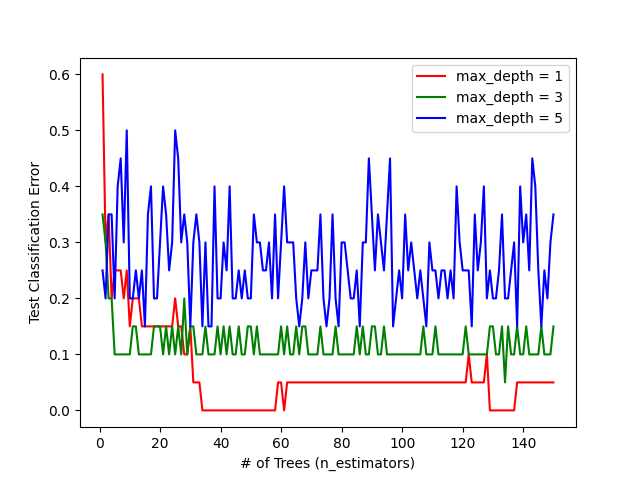
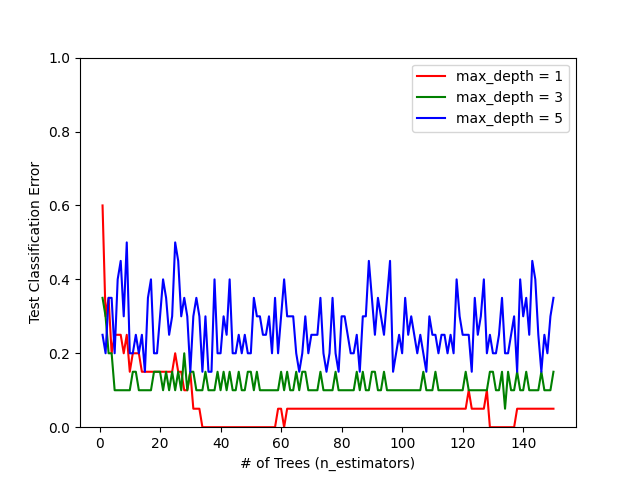
n

diff --git a/_hw3/hw3/Submission/Code/Template_SVM.py b/_hw3/hw3/Submission/Code/Template_SVM.py
@@ -36,32 +36,50 @@ class SVM(object):
         n_samples, n_features = X.shape
 
         # Initialize the parameters wb
+        wb = std * np.random.randn(n_features + 1) # +1 for bias term
 
         # initialize any container needed for save results during training
+        w, b = SVM.unpack_wb(wb, n_features)
+        self.set_params(w, b)
+        best_obj_f = None
+        best_wb = None
+        obj_list = []
 
         for i in range(iterations):
             pass
             # calculate learning rate with iteration number i
+            lr_t = lr / ((i + 1) ** 0.5)
 
             # calculate the subgradients
+            subgradients = self.subgradient(wb, X, y)
 
             # update the parameter wb with the gradients
+            wb = wb - subgradients * lr_t
 
             # calculate the new objective function value
-
+            obj_f = self.objective(wb, X, y)
 
             # compare the current objective function value with the saved best value
             # update the best value if the current one is better
-
+            obj_list.append(obj_f)
+            if best_obj_f is None:
+                best_obj_f = obj_f
+                best_wb = wb
+            else:
+                if obj_f < best_obj_f:
+                    best_obj_f = obj_f
+                    best_wb = wb
             # Logging
             #if (i+1)%1000 == 0:
             #    print(f"Training step {i+1:6d}: LearningRate[{lr_t:.7f}], Objective[{f:.7f}]")
 
         # Save the best parameter found during training 
+        self.wb = best_wb
+        self.w, self.b = self.unpack_wb(self.wb, n_features)
 
         # optinally return recorded objective function values (for debugging purpose) to see
         # if the model is converging
-        # return
+        return obj_list
 
     @staticmethod
     def unpack_wb(wb, n_features):
@@ -274,6 +292,8 @@ def plot_decision_boundary(clf, X, y, title='SVM'):
     plt.title(title)
     plt.show()
 
+def ensembles_part_4(kernel, train_X, train_y, test_X, test_y):
+
 
 def main():
     # Set the seed for numpy random number generator
@@ -283,11 +303,16 @@ def main():
     # Load in the training data and testing data
     train_X, train_y, test_X, test_y = load_data()
 
+    # Ensembles 2.4 
+    ensembles_part_4('linear', train_X, train_y, test_X, test_y)
+    ensembles_part_4('poly', train_X, train_y, test_X, test_y)
+    ensembles_part_4('rbf', train_X, train_y, test_X, test_y)
+
     # For using the first two dimensions of the data
     #train_X = train_X[:,:2]
     #test_X = test_X[:,:2]
 
-
+    breakpoint()
     clf = SVM(C=C)
     objs = clf.fit(train_X, train_y, lr=0.002, iterations=10000)
 

diff --git a/_hw3/hw3/Submission/Code/Template_Ensembles.py b/_hw3/hw3/Submission/Code/Template_Ensembles.py
@@ -74,6 +74,7 @@ def main():
     plt.ylabel("Test Classification Error")
     plt.xlabel("# of Trees (n_estimators)")
     plt.legend(loc=1)
+    plt.ylim(0,1)
     # plt.show()
     plt.savefig('../Figures/ensemble_randomforest_Q2.4_plot.png')
     
@@ -122,6 +123,7 @@ def main():
     plt.ylabel("Test Classification Error")
     plt.xlabel("# of Trees (n_estimators)")
     plt.legend(loc=1)
+    plt.ylim(0,1)
     # plt.show()
     plt.savefig('../Figures/ensemble_adaboost_Q2.6_plot.png')
 
